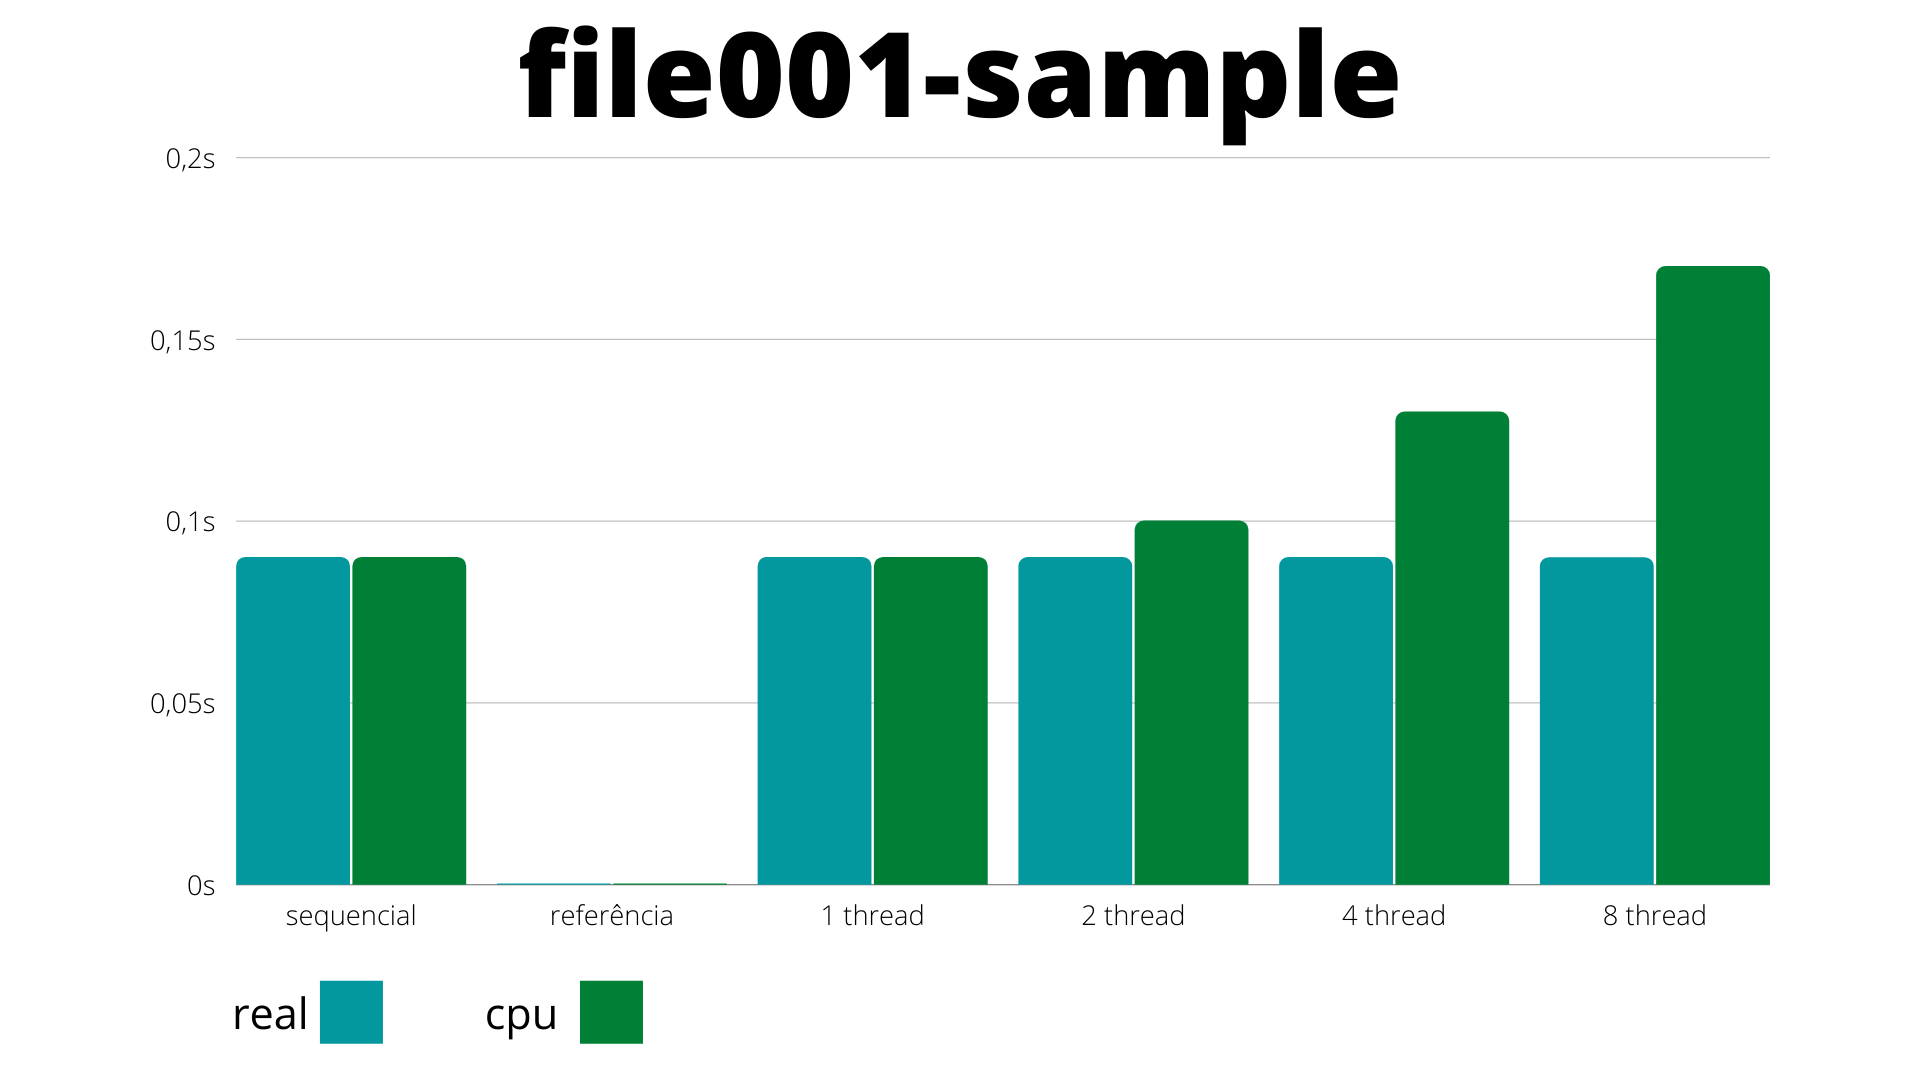
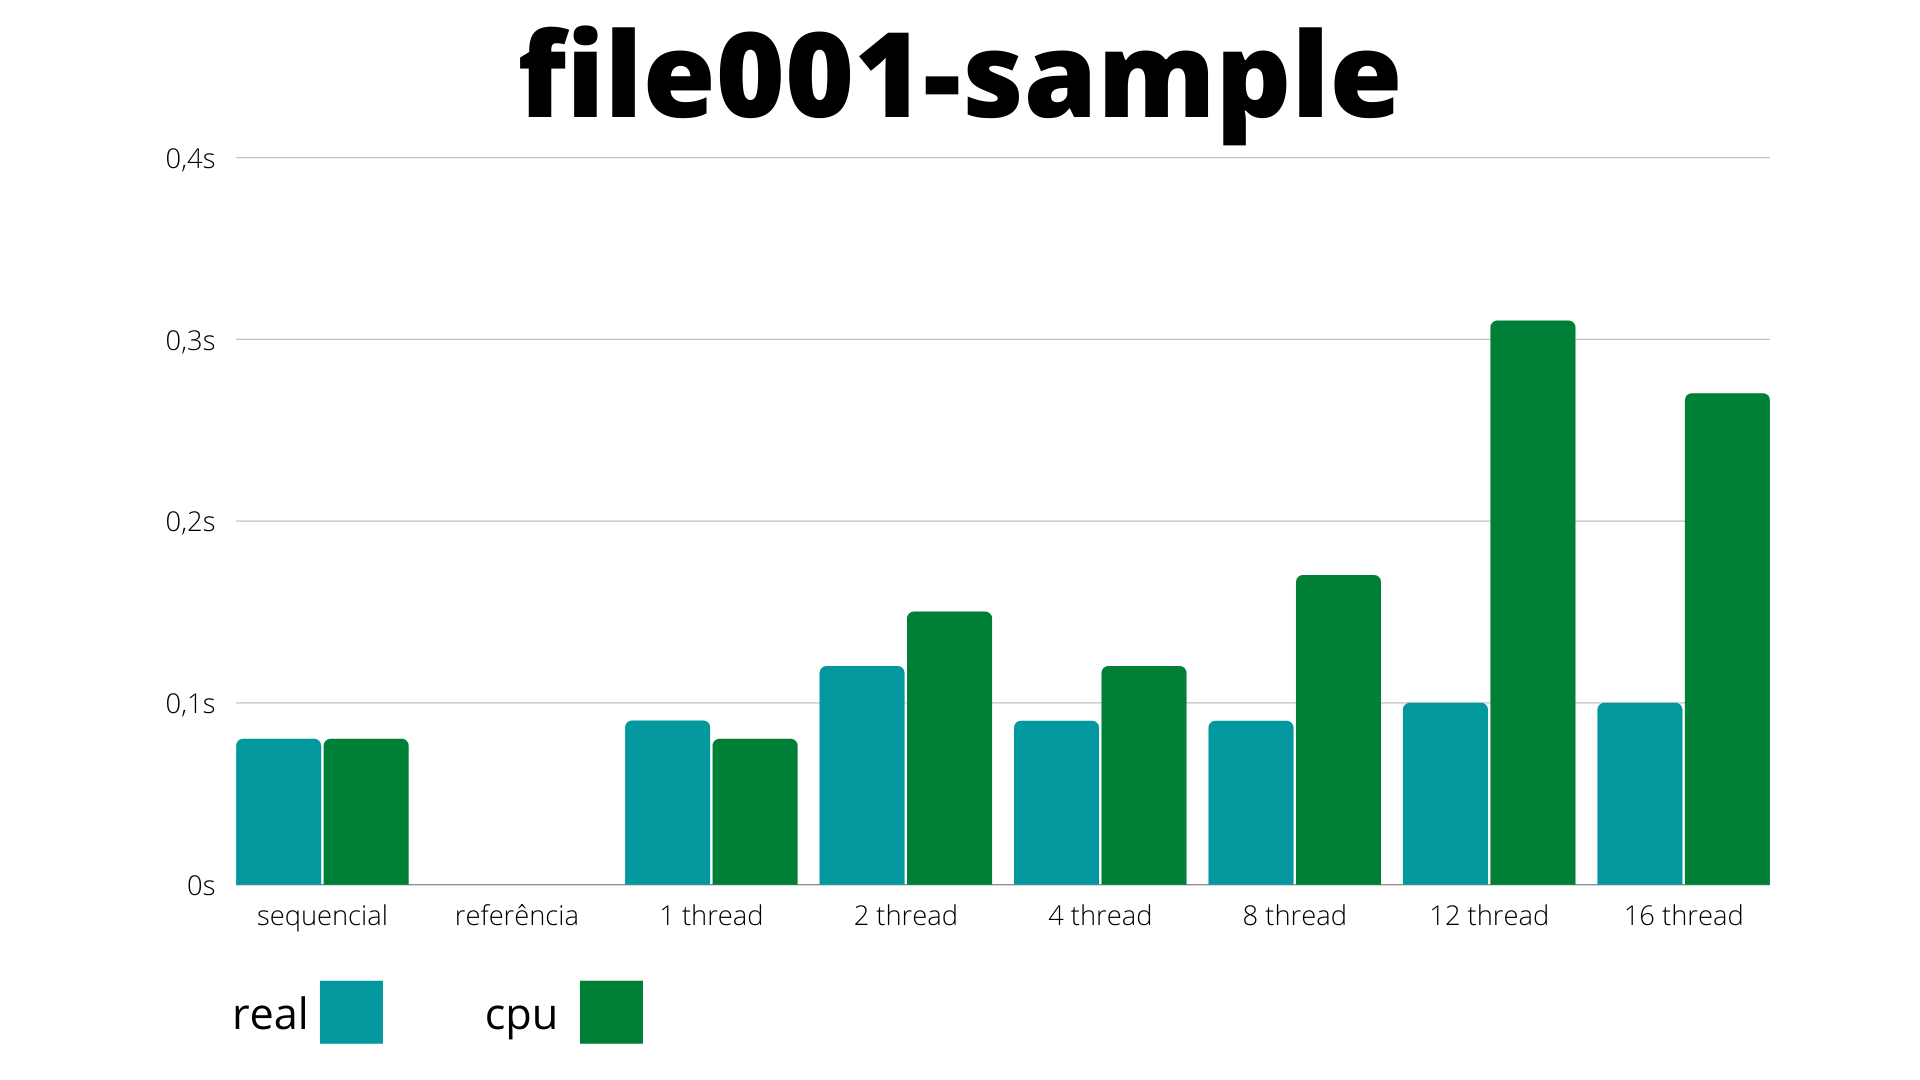
Adicionando execução com 12 e 16 threads.

Changed region(s): [[0.25, 0.2444, 0.9375, 0.8556], [0.0625, 0.4889, 0.25, 0.8556], [0.0625, 0.3056, 0.0938, 0.3361]]

diff --git a/relatorios/murilo_victor/README.md b/relatorios/murilo_victor/README.md
@@ -42,7 +42,7 @@ A segunda solução foi criar uma matriz para os candidatos, onde cada thread op
 Para evitar outros conflitos de acesso, a variável 'voto' foi tornada privada de cada thread e foi aplicado um reduction nas variáveis de soma de votos.
 
 ## 4. Teste de desempenho
-No dia no qual o grupo testou o projeto, a máquina CHOCOCINO recomendada pelo professor não estava disponível. Fomos orientados a usar uma máquina dos próprios integrantes do grupo, apesar da limitação de 8 threads.
+Todos os testes foram realizados na máquina CHOCOCINO disponibilizada pelo professor.
 
 ### 4.1. Gráficos
 
@@ -101,6 +101,17 @@ No dia no qual o grupo testou o projeto, a máquina CHOCOCINO recomendada pelo p
     <img src="imagens/file-011-big.png" alt="Logo">
 </p>
 
+#### 4.1.12 Tempo de CPU
+<p align="center">
+    <img src="imagens/total_cpu.png" alt="Logo">
+</p>
+
+#### 4.1.12 Tempo Real
+<p align="center">
+    <img src="imagens/total_real.png" alt="Logo">
+</p>
+
+
 ### 4.2. Conclusões
 
 Cada programa foi executado 3 vezes com cada arquivo e os gráficos representam a média dos tempos de execução.
@@ -110,6 +121,8 @@ Os principais pontos a serem destacados são:
 - Fazer uso de mais threads nos arquivos menores aumentou o tempo de processamento sem ganhos significantes no tempo de execução. Isso acontece por causa dos passos extras que a implementação das threads exige. Isso é facilmente notável comparando a execução sequencial e a execução com 1 thread. Apesar de ambos usarem somente uma thread para processamento, a execução com 1 thread perde ou empata com a sequencial em todos os casos.
 
 - O ganho de tempo da execução com mais threads torna-se mais claro nos arquivos maiores. Nos arquivos 'big', por exemplo, a utilização de mais threads aumenta o tempo de processamento, devido a utilização do processador por completo, mas reduz significativamente o tempo de execução.
+
+- Os dois últimos gráficos tem uma estrutura semelhante, porém estão invertidos. É possível notar que, ao aumentar o número de threads, o tempo de uso de CPU também aumenta (utilização mais completa dos núcleos de processamento disponíveis) e, proporcionalmente, o tempo real diminui (quase todas as vezes).
 
 [Planilha com os tempos médios de execução](https://docs.google.com/spreadsheets/d/1oWU8GOvMt8J1LMZlms-_GB_e31vwBHyafCCxKyFT1iE/edit?usp=sharing)
 
